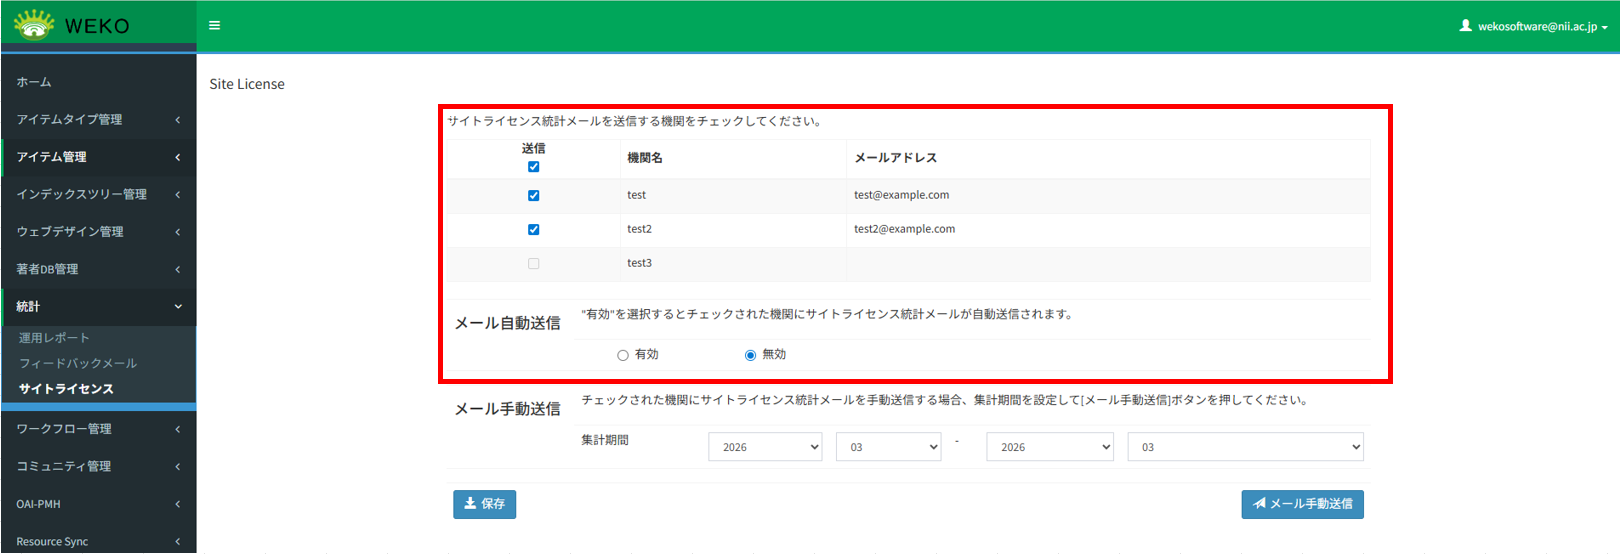
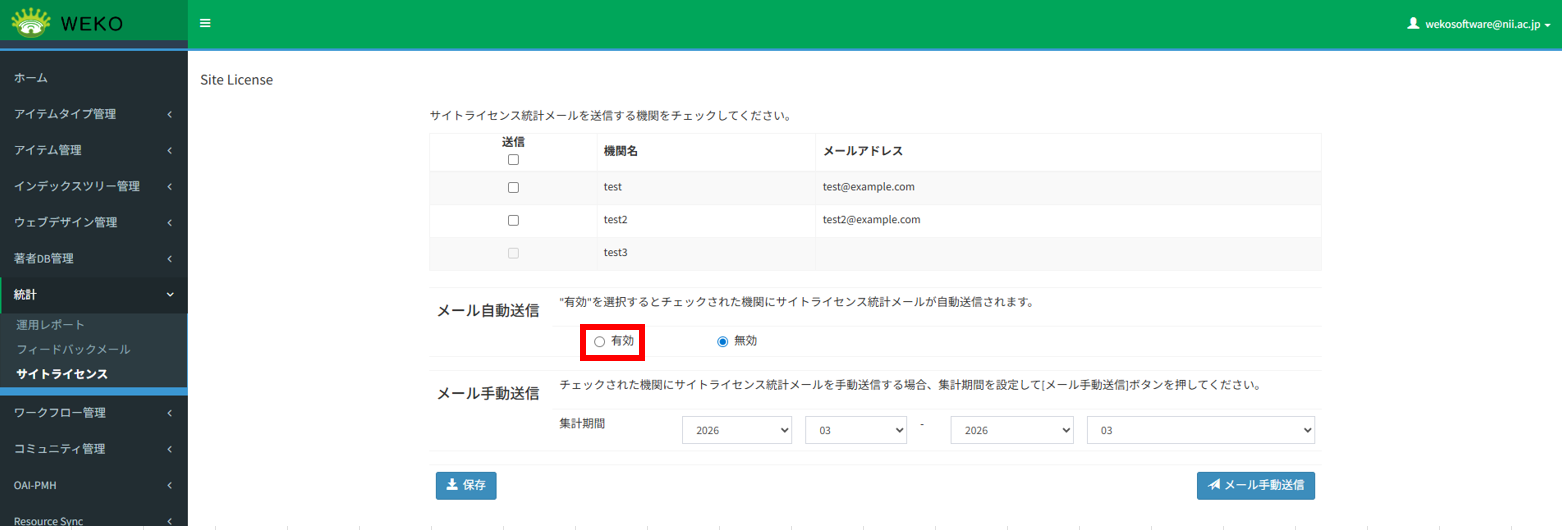
fix

diff --git a/docs/spec/ADMIN_6_3.md b/docs/spec/ADMIN_6_3.md
@@ -58,7 +58,9 @@
                     
                       - 「メールアドレス」（Email Address）
             
-              - リポジトリ管理者は、送信したい機関にチェックボックスでチェックできる
+              - 管理者は、メールアドレスが設定されていない機関以外の送信したい機関にチェックボックスでチェックできる
+
+              - ヘッダーのチェックボックスをチェックすることで、メールアドレスが設定されていない機関以外の送信したい機関を一括でチェックできる。
             
               - 初期値は全てのチェックボックスにチェックがついていない状態とする
             
@@ -66,7 +68,7 @@
         
           - 「Automatic Send」
             
-              - 自動送信を「送信／無効」（Enable／Disable）のラジオボタンを設ける
+              - 自動送信を「有効／無効」（Enable／Disable）のラジオボタンを設ける
             
               - ラジオボタンの初期値は「無効」（Disable）とする
             

diff --git a/docs/spec/USER_3_2.md b/docs/spec/USER_3_2.md
@@ -141,7 +141,7 @@
        
           - ダウンロード権限がない場合
        
-          - ファイルがオープンアクセス状態である場合 （「オープンアクセス」を表示）
+          - ファイルがオープンアクセス状態である場合 （全てのロールで「オープンアクセス」を表示）
 
 2\. 登録されたコンテンツファイルをプレビューできる。
 